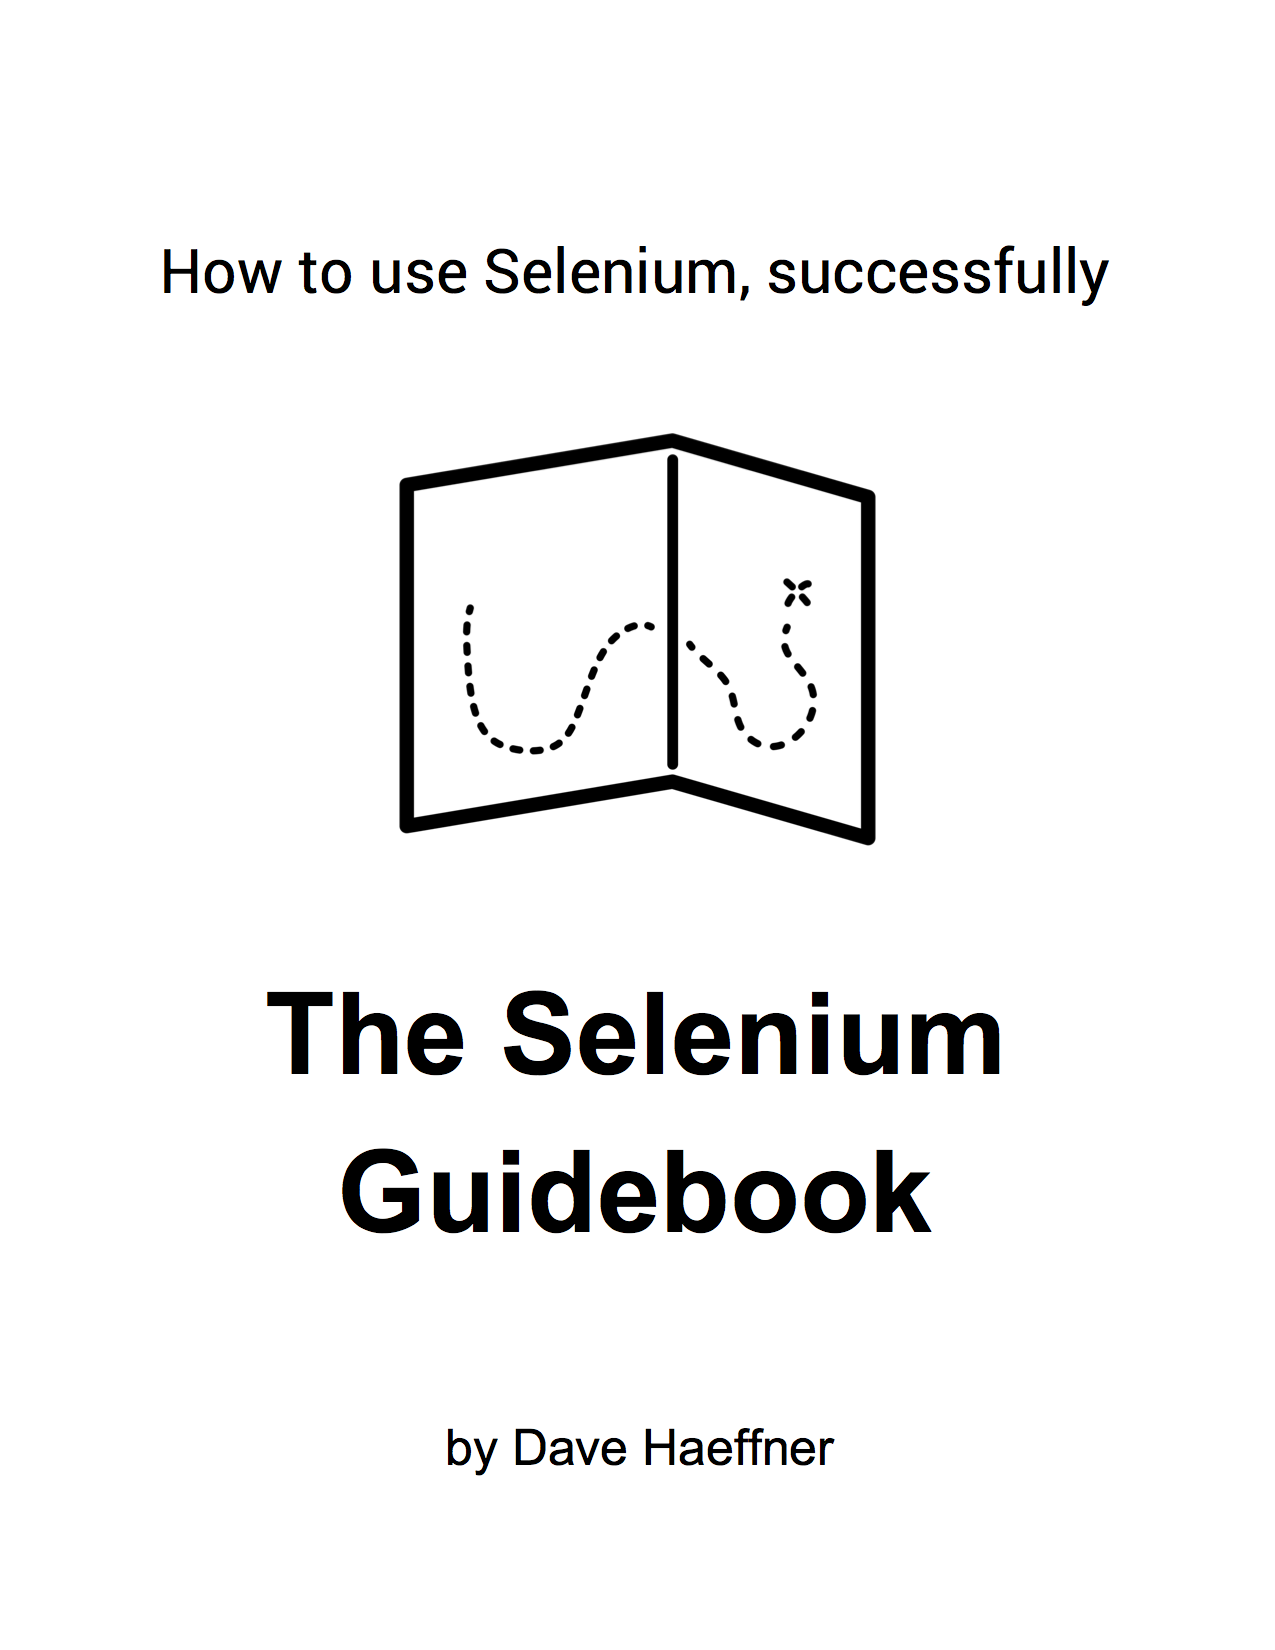
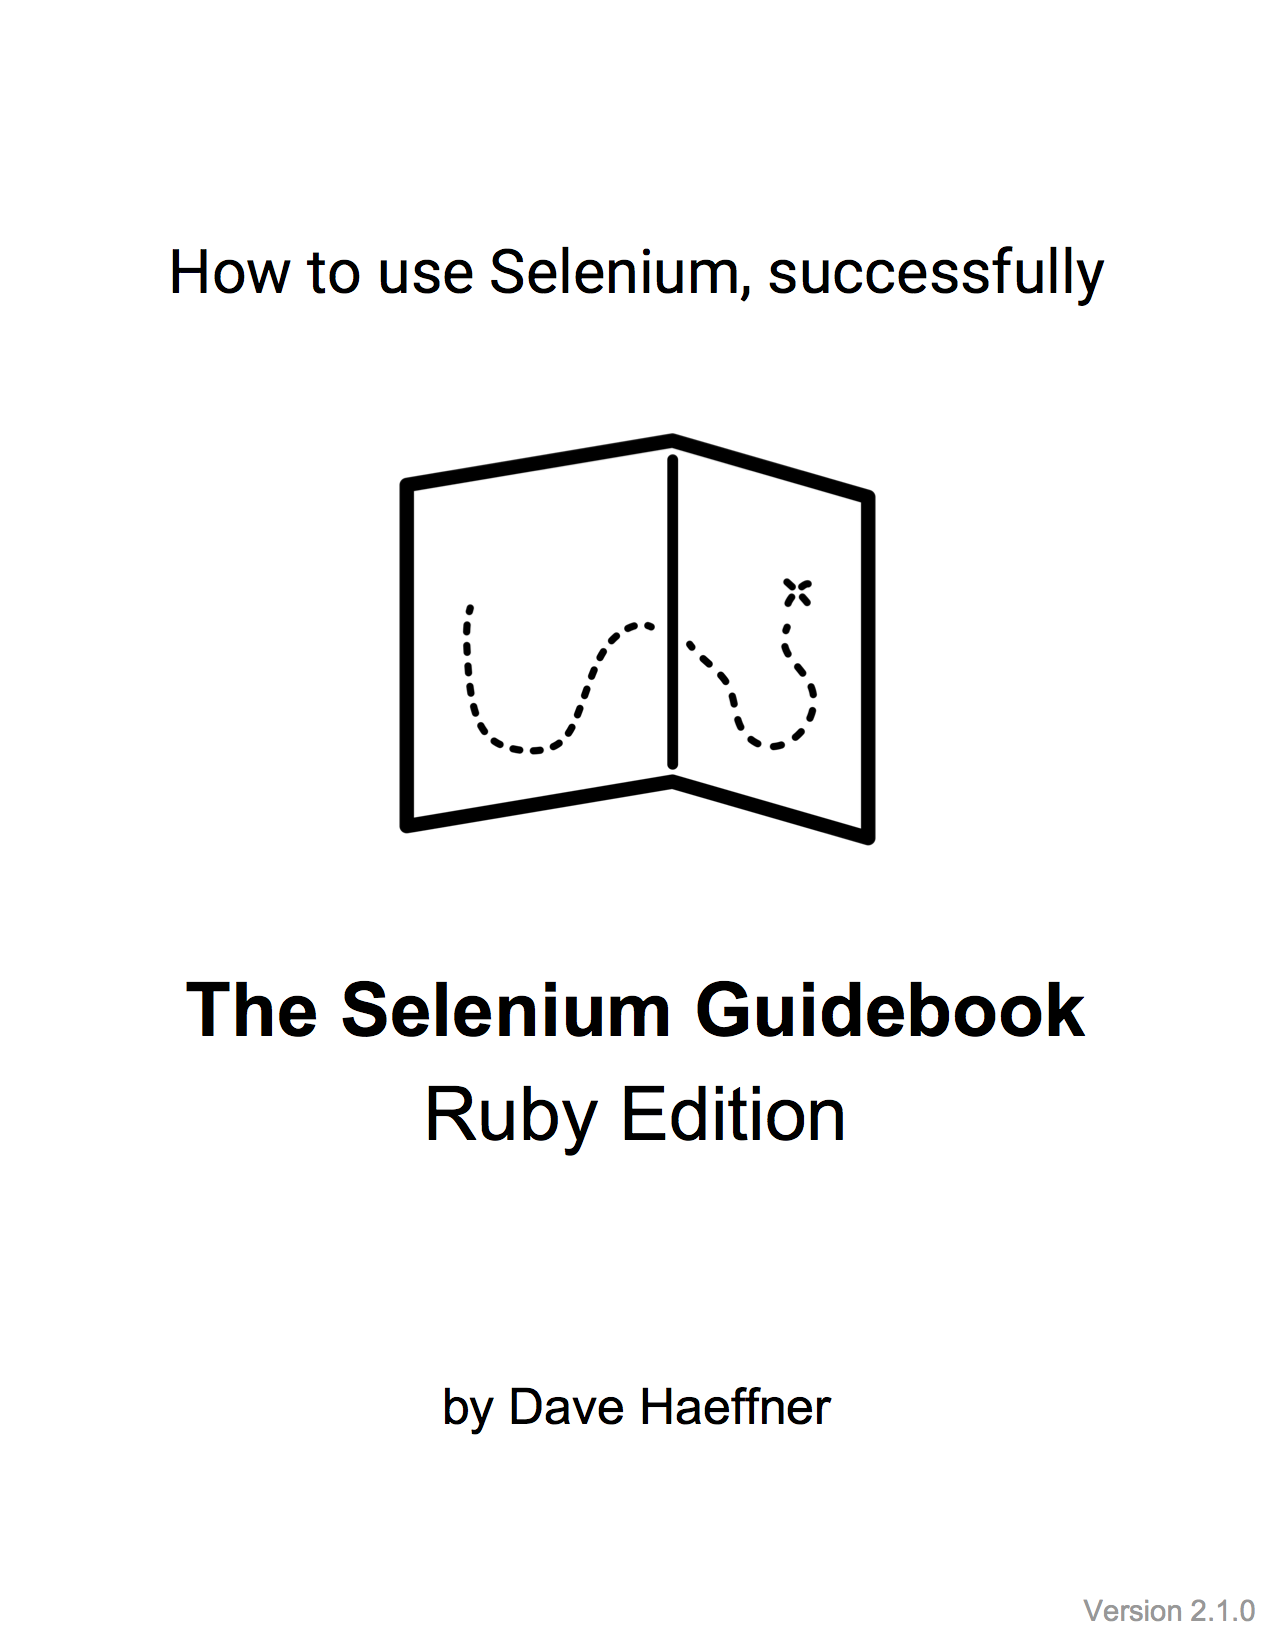
Updated chapter 18 to link to contact page instead of explicitly listing contact options. Updated book cover with version number. Updated metadata.xml file

diff --git a/book/content/chapters/18.md b/book/content/chapters/18.md
@@ -4,10 +4,8 @@ The journey for doing Selenium successfully can be long and arduous. But by adhe
 
 You are ready. Keep going, and best of luck!
 
-And if you have any questions, feedback, or want help -- get in touch!
+If you have any questions, feedback, or want help -- [get in touch](http://davehaeffner.com/contact/)!
 
-+ E-mail: <dhaeffner@gmail.com>  
-+ Twitter: [@TourDeDave](http://twitter.com/tourdedave)  
-+ Office hours: [SoHelpful.me/TourDeDave](http://sohelpful.me/tourdedave)  
 
-My office hours are free (read: completely free -- no strings attached). You can grab a 30-minute time slot to hop on a Skype or Google Hangout call with me to talk about testing. And if we're both at a conference or meetup, feel free to stop me and say hello!
+Cheers,  
+Dave H
